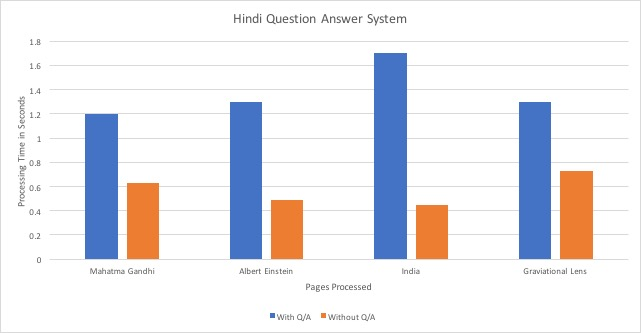
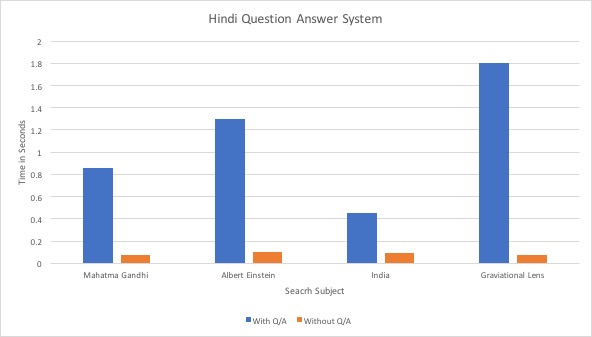
Adding More test results and related work

diff --git a/chap1.tex b/chap1.tex
@@ -1,24 +1,38 @@
 \chapter{Introduction}
 
 \paragraph{}
-The web has information written in almost 7000 languages and it is a necessity to have systems which can retrieve information efectively in different languages. One of the most researched Indian language is Hindi which means a relatively large number of Hindi documents are available. The purpose of implementing a Question Answer (QA) system which can accept and retrieve answers in Hindi is to make it possible for software system to understand the language and reach out to a bigger audience. The users prefer and feel a sense of comfort if they can use a software in a language they have expertise in. This is where Natural Language Processing \cite{chowdhury2003natural} plays an important role as it helps to handle information in native languages.
+The web has information written in almost 7000 languages and it is a necessity to have systems which can retrieve information effectively in different languages. The most researched Indian language is Hindi which means a relatively large number of Hindi documents are available. The purpose of implementing a Question Answer system which can accept and retrieve answers in Hindi is to make it possible for a software system to understand the language and reach out to a bigger audience. Users prefer and feel a sense of comfort if they can use a software in a language they have expertise in. This is where Natural Language Processing \cite{chowdhury2003natural} plays an important role as it helps to handle information in native languages.
 
 \paragraph{}
-Natural Language Processing is a discipline of Computer Science, Artificial Intelligence which helps humans interact with computers in a natural manner. We can define Natural Language Processing as an area of research which explore how machines can be programmed to understand and play with natural language text and speech wise. This involved studying of humans perceive and act to the language so that efficient tools and programs can be developed to manipulate a natural language. Natural Language processing can be used in Computer Science, Linguistics, Artificial Intelligence and Robotics. 
+Natural Language Processing is a discipline of Computer Science, Artificial Intelligence which helps humans interact with computers in a natural manner. We can define Natural Language Processing as an area of research which explores how machines can be programmed to understand and play with natural language text and speech wise. This involved studying of how humans perceive and act to the language so that efficient tools and programs can be developed to manipulate a natural language. Natural Language processing can be used in Computer Science, Linguistics, Artificial Intelligence and Robotics. 
 
+\section{Related Work}
 \paragraph{}
-There are various Question Answering systems implemented over the years which extract data from the web and return answers. The systems implemented use a knowledge store, machine learning or a combination of the two to process the data and extract question answers. we describe some of the related work and existing systems for Question Answering 
+There are various Question Answering systems implemented over the years which extract data from the web and return answers. The systems implemented may use a knowledge store, machine learning or a combination of the two to process the data and extract question answers. We describe some of the related work and existing systems for Question Answering systems.
 
 \begin{enumerate}
-\item START: Question Answer System \cite{katz1997annotating} which extracts data from the web to answer questions ranging from cities to people etc. The system uses a database to fetch the answer to user asked queries. 
+\item 
+START: Question Answer System \cite{katz1997annotating} which extracts data from the web to answer questions ranging from cities to people etc. The system uses a database to fetch the answer to a user asked question.
 
 \item
-Garima Nanda et.al implemented a Hindi Question Answer system \cite {nanda2016hindi} using a combination of machine learning and a knowledge base to answer user queries. The system parses the input, tokenizes and extract features using previously calculated results. The system uses  Naive Bayes as a classifier combined with known datastore to return answers in Hindi.
+Garima Nanda et.al implemented a Hindi Question Answer system \cite {nanda2016hindi} using a combination of machine learning and a knowledge base to answer user queries. The system parses input, tokenizes and extract features using previously calculated results. The system uses  Naive Bayes as a classifier combined with known data store to return answers in Hindi.
 
 \item
 IRSL \cite {sangeetha2017information} is a closed domain Question Answer system developed for helping users get answers related to laws in India. The system uses OpenNLP to preprocess the input and a Q-Learning algorithm to learn from user inputs. It then uses a Wordnet to extract synonyms.
 
+\item 
+In Google \cite {alupului2016question}, previously when the user was presented with links and references. Today, the users is presented with a short paragraph at the top of the search results. The system is capable of semantically distinguishing the questions. The system however does not provide an answer for all queries.
+
 \end{enumerate}
 
+The above systems are mainly classified as Open Domain and Closed Domain Question Answering Systems.
+
 \paragraph{}
-For the project we have implemented a system which has Natural Language Processing at its core. We discuss about improving an existing Question Answering Module \cite {patel2015question} in Yioop and then implement a similar system for Hindi which is a Indian language. We discuss the different approaches which are followed while developing a Question Answering System \cite {simmons1970natural}, \cite{waltz1978english}. The different tasks which are performed to process the data and convert it to a format which Yioop can use to handle simple English and Hindi questions. We also provide a way for the user to add entities to the Yioop database which can further improve the efficiency of the Question Answer System.
+Open domain systems are responsible for handling large amounts of data and wide range of questions. They are designed to answer questions about everything. Google, Wikipedia, etc. are examples of such systems. They depend on their knowledge store to tackle the questions and return the best answers.
+
+\paragraph{}
+Closed domain systems are designed to handle questions in a specific domain. For example, IRSL system is designed specifically to handle question-answers related to the Indian Judiciary. Such systems have a fixed set of documents which they process when a user asks a query to return the best answer.
+
+\paragraph{}
+Natural Language Processing is the core of any Question Answer system. The number of modules involved in building an efficient Question Answer system adds to the complexity of such a system. As part of the project, we have improved the performance of an existing Question Answering Module \cite {patel2015question} in Yioop. The proposed work includes implementing a similar system for Hindi which is an Indian language. In this report, we describe the the different steps we followed to build the system. The report is organized as follows: Chapter 2 gives a background on Question Answer Systems and describes the different approaches used in developing such systems, Chapter 3, describes the individual modules which were implemented to build the Hindi Question Answer System, Chapter 4, describes tests and experiments conducted on the Hindi Question Answer System, Chapter 5 gives a short summary of the work done.
+

diff --git a/testandresults.tex b/testandresults.tex
@@ -1,10 +1,10 @@
 \chapter{Tests and Results}
 
 \paragraph{}
-The Question Answer System implemented is part of the Yioop search engine and is platform independent. The system works by tagging phrases using a Brill variant Part of Speech tagger for Hindi sentences. In the next step, triplets are formed and stored in the database using the grammar rules for Hindi. The test data for the system is an index created by configuring Yioop to crawl hindi webpages from Wikipedia and Indian websites with Hindi content. We created 3 crawls about 100,000 webpages from which the summarizer extracted text from 6000 documents to create the index. Below are examples, of some 'Wh' questions to the system.
+The Question Answer System implemented is part of the Yioop search engine and is platform independent. The system works by tagging phrases using a Brill variant Part of Speech tagger for Hindi sentences. In the next step, triplets are formed and stored in the database using the grammar rules for Hindi. The test data for the system is an index created by configuring Yioop to crawl hindi webpages from Wikipedia and Indian websites with Hindi content. We describe the experiments conducted on the Question Answer Module as a standalone utility and next we describe the results when integrated in Yioop.
 
-\section {Standalone Testcase}
-In this section, we provide a text case for the system as standalone module. It is assumed that the input to the system is a semantically and syntactically correct sentence.
+\section {Question Answer Module: Standalone Testcase}
+In this section, we describe test cases for the system as standalone module. It is assumed that the input to the system is a processed to remove special characters, punctuations, etc. Also, the given sentence is semantically and syntactically correct.
 
 \begin{enumerate}
 \item  Figure 9 shows the sentence after it is tagged for parts of speech
@@ -12,11 +12,11 @@ In this section, we provide a text case for the system as standalone module. It 
 \begin{figure}[htb]
 \centering
 \includegraphics[width=0.8\textwidth]{images/sentence_testcase1.jpg}
-\caption{Standalone Sentence 1.} 
+\caption{Hindi Sentence 1.} 
 \label{fig:sentence_testcase1}
 \end{figure}
 
-A word for word translation of the above sentence to English is 'Obama Harward law school from 1999 graduate complete'. From the translation, we can guess which words should go into the noun, post and verb phrases. Figure 10 shows the Parse Tree generated for this sentence 
+A word for word translation of the above sentence to English is 'Obama Harward law school from 1999 graduate complete'. Figure 10 shows the Parse Tree generated for this sentence 
 
 \begin{figure}[htb]
 \centering
@@ -41,11 +41,11 @@ The triplets extracted for the above parse tree are as shown in Figure 11 above.
 \begin{figure}[htb]
 \centering
 \includegraphics[width=0.5\textwidth]{images/sentence_testcase2.jpg}
-\caption{Standalone Sentence 2.} 
+\caption{Hindi Sentence 2.} 
 \label{fig:sentence_testcase2}
 \end{figure}
 
-A word for word translation of the above sentence to English is 'Narendra Modi India (s) Prime Minister is'. From the translation, we can guess which words should go into the noun, post and verb phrases. Figure 13 shows the Parse Tree generated for this sentence 
+A word for word translation of the above sentence to English is 'Narendra Modi India (s) Prime Minister is'. Figure 13 shows the Parse Tree generated for this sentence 
 
 \begin{figure}[htb]
 \centering
@@ -63,24 +63,17 @@ Below are results for the Question Answer System when a crawl was setup for all 
 
 \begin{figure}[htb]
 \centering
-\includegraphics[width=0.8\textwidth]{images/who_question.jpg}
-\caption{Who question after Integration in Yioop.} 
-\label{fig:who_question}
+\includegraphics[width=0.9\textwidth]{images/QA_IntegratedInYioop.jpg}
+\caption{Question Answer Integration in Yioop.} 
+\label{fig:QA_IntegratedInYioop}
 \end{figure}
 \break
 
 \begin{figure}[htb]
 \centering
-\includegraphics[width=0.8\textwidth]{images/why_question.jpg}
-\caption{Why Question after Integration in Yioop.} 
-\label{fig:why_question}
-\end{figure}
-
-\begin{figure}[htb]
-\centering
-\includegraphics[width=0.8\textwidth]{images/what_question.jpg}
-\caption{What Question after Integration in Yioop.} 
-\label{fig:what_question}
+\includegraphics[width=0.8\textwidth]{images/Yioop_NoQA.jpg}
+\caption{No Question Answer System in Yioop.} 
+\label{fig:Yioop_NoQA}
 \end{figure}
 
 \paragraph{}
@@ -99,7 +92,7 @@ The initial implementation of the Question Answer system read performed part of 
 \begin{figure}[htb]
 \centering
 \includegraphics[width=0.8\textwidth]{images/QA_performance2.jpg}
-\caption{Yioop performance for simple Hindi Questions.} 
+\caption{Part of Speech tagging time comparison.} 
 \label{fig:QA_performance2}
 \end{figure}
 \break
@@ -110,6 +103,6 @@ We compare the English and Hindi Question answer systems for relevant answers. I
 \begin{figure}[htb]
 \centering
 \includegraphics[width=0.8\textwidth]{images/QA_performance3.jpg}
-\caption{Yioop performance for simple Hindi Questions.} 
+\caption{English v/s Hindi Question Answer System.} 
 \label{fig:QA_performance3}
 \end{figure}

diff --git a/chap3.tex b/chap3.tex
@@ -120,28 +120,7 @@ RULE: After applying all the rules if the word is still tagged as Unknown then t
 
 \section {Parse Tree Generation}
 \paragraph{}
-After all the words in the sentence are tagged with the most probable part of speech, we generate a tree like structure composing of the Noun, Verb and PostPosition or Preposition Phrase. For a Hindi sentence \cite{bhat2017improving}, the structure is generally Noun Phrase followed by the Verb Phrase which is same as most of the English sentences. In English, the verb or the predicate helps us separate the Noun and Verb Phrase, in case of Hindi we have something similar, these are known as $case$ words. These help us distinguish between the subject and object in a given sentence. This is why we have implemented the Hindi parse tree to be comprised of Noun Phrase, Postposition Phrase and Verb Phrase. 
-
-\paragraph{}
-For example, for the sentence shown in Figure 3 the parse tree generated is as shown in Figure 4
-
-\begin{figure}[htb]
-\centering
-\includegraphics[width=0.5\textwidth]{images/sentence.jpg}
-\caption{Hindi Sentence.} 
-\label{fig:sentence}
-\end{figure}
-
-\begin{figure}[htb]
-\centering
-\includegraphics[width=0.5\textwidth]{images/parsetree.jpg}
-\caption{Parse Tree.} 
-\label{fig:parsetree}
-\end{figure}
-
-\break
-\paragraph{}
-To generate the parse tree structure as shown in Figure 4, we use the following grammar rules, \\
+After all the words in the sentence are tagged with the most probable part of speech, we generate a tree like structure composing of the Noun, Verb and PostPosition or Preposition Phrase. For a Hindi sentence \cite{bhat2017improving}, the structure is generally Noun Phrase followed by the Verb Phrase which is same as most of the English sentences. In English, the verb or the predicate helps us separate the Noun and Verb Phrase, in case of Hindi we have something similar, these are known as $case$ words. These help us distinguish between the subject and object in a given sentence. This is the reason we have implemented the Hindi parse tree to be comprised of Noun Phrase, Postposition Phrase and Verb Phrase. 
 
 \textbf {NP: $\{ \langle$ JJ | NN* $\rangle \}$+}  \\
 
@@ -151,7 +130,7 @@ For any given sentence, the initial sequence of adjectives and nouns becomes par
 
 This rule extracts the information from the sentence till we encounter the verb phrase. Hindi being a subject-object-verb language, most of the sentences usually end with verbs. So the verb phrase extraction rule is \\
 
-\textbf {VP: $\{ \langle$ VB | IN | NP $\rangle \}$+} \\
+\textbf {VP: $\{ \langle$ VB*$\rangle \langle $ IN | NP $\rangle \}$} \\
 
 In Hindi, the case words which separate the noun and post position phrase are the ones which help define the relationship between the subject and object. Hence, identifying the case words more accurately will help increase how accurate the generated parse tree will be. Below we describe the algorithms for parsing sentence for different parts like the Noun Phrase, Postpositional Phrase and Verb Phrase,
 
